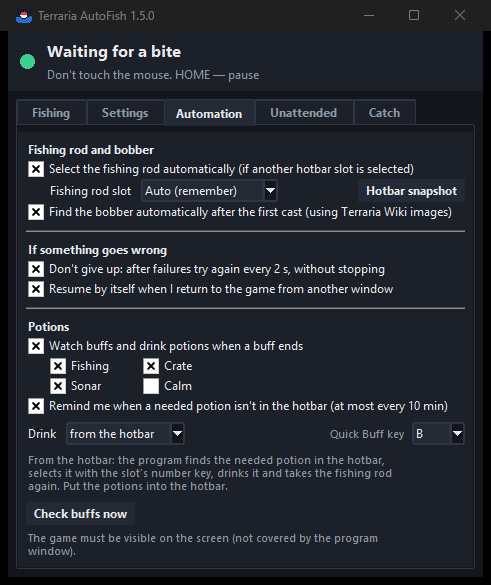
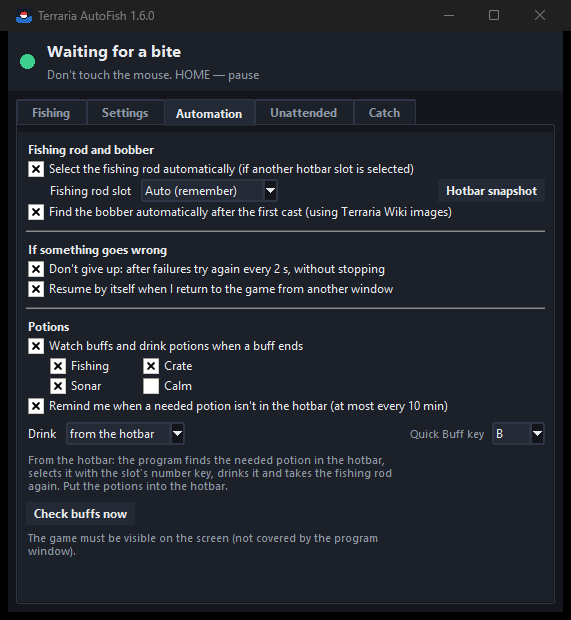
Version 1.6.0: diagnostics, Something's wrong, charts, less CPU, portable update
README (EN/RU), release notes and screenshots for 1.6.0.

diff --git a/src/app.py b/src/app.py
@@ -27,7 +27,7 @@ import i18n
 from i18n import tr
 
 APP = "Terraria AutoFish"
-VERSION = "1.5.1"
+VERSION = "1.6.0"
 # Портативная версия: рядом с программой лежит portable.txt — всё хранится в папке программы
 PORTABLE = os.path.exists(os.path.join(af.HERE, "portable.txt"))
 CFG_DIR = (os.path.join(af.HERE, "settings") if PORTABLE

diff --git a/src/installer.py b/src/installer.py
@@ -15,7 +15,7 @@ from tkinter import filedialog, ttk
 import setup_core as sc
 from i18n import system_lang
 
-VERSION = "1.5.1"
+VERSION = "1.6.0"
 LANG = system_lang()
 TEXT = {
     "title": ("Установка Terraria AutoFish %s", "Terraria AutoFish %s Setup"),

diff --git a/docs/releases/v1.6.0.md b/docs/releases/v1.6.0.md
@@ -1,0 +1,167 @@
+## Terraria AutoFish 1.6.0
+
+**English** · [Русский ниже](#русский)
+
+Automatic fishing for **Terraria** (1.4.4, 1.4.5 and newer, tModLoader). The program watches the bobber on the screen and hooks the fish the moment the bobber goes under water (or lava), then casts again. It takes the fishing rod in hand, finds the bobber by itself, drinks potions from the hotbar, can hook only the catch you want (Sonar Potion), counts what is caught, waits out Blood Moons and invasions and stops when something goes wrong. It works with screenshots, mouse clicks and key presses; it never changes the game's memory or files (it only reads item names from the game's own translation tables).
+
+### Download
+- **TerrariaAutoFish-1.6.0-setup.exe** — installer: installs for the current user (no admin rights), adds Desktop and Start menu shortcuts, updates an existing installation; remove it in Settings → Apps.
+- **TerrariaAutoFish-1.6.0-portable.zip** — portable version: unpack the `TerrariaAutoFish` folder anywhere (even a USB stick) and run `TerrariaAutoFish.exe`; settings are kept next to the program.
+
+### New in 1.6.0
+- **Diagnostics** (Settings tab): one check of everything needed for fishing — the game window, the hotbar and interface scale, the fishing rod and bait, potions in the hotbar and active buffs, health hearts, Windows text recognition languages, item names from the game, Zoom and saved points — each with what to do. The result is shown in a window and saved to `data\diagnostics_….txt`.
+- **⚑ Something's wrong** (Fishing tab): the last 60 search, bite and text pictures (kept in memory even with debug pictures off), a screenshot of the game window, the end of the log and the settings go into one `data\reports\mistake_….zip` — send it, and a strange case can be analysed right away.
+- **Events and death on real frames:** a new event line from the chat and the hearts at the moment of death are kept as pictures, and what was read is written to the log once — so the event recognition can be checked and improved on your games.
+- **Small window options:** opacity, text size, the mode block on/off, hide while fishing is paused.
+- **Charts in the catch report:** the catch over 14 days and by hour of day, how many crates and rare items, which biome gave the most.
+- **Less CPU:** while waiting for a bite the program takes an even 60 pictures a second (as many as the game draws) instead of up to ~150–200, and doesn't ask Windows for the game's process name on every picture — on the test game 23% → 9% of one core. The stats show the program's CPU load.
+- **One-click update for the portable version too:** it downloads the new zip, closes, replaces its files (settings and data are kept) and starts again.
+- **Second monitor:** the program window and the small window open where they were left, also on a monitor with negative coordinates; fishing on such a monitor is covered by a test.
+- **"Support the author"** window (appears once donation links are added).
+- **114 tests.**
+
+### Fixed in 1.5.1
+- **The program lost the bobber and followed an empty place.** In a dark cave the wide search took an empty spot on the water edge right next to the real bobber: the check "is it our bobber" looked for the Wiki image with too low a threshold (0.65, the empty edge gave 0.69). The remembered bobber image then "learned" the water edge, which looks the same along the whole surface, and the program watched an empty place — no bites for 45 s again and again, and its clicks got out of step with the real casts (a "hook" only cast the bobber). Now:
+  - a found place must look like the Wiki image of this bobber type (0.75+, the real bobber gives 0.95);
+  - the wide search takes the place most similar to the bobber in the zone;
+  - a place found only by the remembered image must pass the same check;
+  - after 3 recasts in a row without a bite the original bobber image and mark are restored.
+- **The program is in the project folder again** (`TerrariaAutoFish.exe` + `_internal`); everything it writes itself — logs, debug pictures, records, hotbar snapshots, reports — is in one `data` folder next to it.
+
+### New in 1.5.0
+**Events and death**
+- **Events in chat are waited out.** The game writes events in chat in green or purple; the program reads such a line and compares it with the game's texts: Blood, Pumpkin and Frost Moon and boss warnings — it reels in and waits one night (~9 min), solar eclipse — a day (~15 min), goblins, pirates, Frost Legion, martians, celestial invasion and a boss awakening — 10 min. Then fishing continues by itself (or press HOME). When an invasion is defeated ("A goblin army has been defeated!"), fishing continues at once.
+- **The character died — fishing stops completely.** No red left in the health hearts (while the hotbar is visible, so the fullscreen map isn't taken for death): no automatic resume, also while an event is being waited out.
+
+**The small window over the game shows the mode**: what is caught (everything or only checked with the Sonar Potion) and in which biome, the Angler quest, potions (and which aren't in the hotbar), what is watched, when to stop, how much bait is left and the last catch.
+
+**Fishing**
+- **A moved picture is followed.** If the character is pushed (an enemy, a fall), the whole picture moves and the old cast point may be over land. The program compares the place with its picture from the last successful cast and moves the cast point and the mark by the same amount instead of failing.
+- **Sonar text over lava.** Lava and waves change all the time, and before the text seemed to be always there — its appearance was missed, and later several texts overlapped. Now colors already present nearby in the background are not taken for letters: on real lava screenshots the text is found and read ("Обсидирыба").
+- **Zoom is recognized by itself** by the bobber's size on the first automatic search (100–200%) and saved in the settings.
+- **Exact bait count and how long it lasts.** The number on the fishing rod is read by samples of the game's digits; only a confident read is used (otherwise the number of digits, as before).
+- **Taking the rod:** a lost key press is repeated; keys are never pressed while the game window isn't active; after 3 failures it tries again in 2 minutes.
+- **Potions:** one reminder for all potions that aren't in the hotbar, repeated only when the list changes or every 10 minutes; can be turned off.
+- **Fixed:** yellow lights behind the hotbar (a garland) stretched the selected slot, the slot layout shifted and neither potions nor the fishing rod were found.
+- **Fixed:** an error when the bobber wasn't visible at all from the start of watching.
+
+**Catch**
+- **History between launches:** the catch report shows this session, today, 7 days or all time (`catch_history.json` next to the settings); CSV for the chosen period.
+
+**Program**
+- **One-click update:** when a new version is out, the button in Settings becomes "Update to X" — it downloads the installer (the size is checked), starts it and closes the program. The portable version opens the release page.
+- **Releases are published from the author's account** (the automatic build on GitHub only builds and keeps the files; `tools/publish_release.py`).
+- **Tidy project folder:** sources in `src`, scripts in `scripts`, the built program with its logs and pictures in `program`.
+- **114 tests**, including real screenshots from lava, a hotbar with yellow lights and bait numbers.
+
+### Features
+**Fishing**
+- **One-key start:** point at the water and press **HOME** — the program selects the rod, casts and finds the bobber. If it can't find it, point at the bobber and press **HOME** once more.
+- **Finds the bobber by itself** by the Terraria Wiki images of every rod's bobber and every Fishing Bobber accessory — in water and in lava; adapts to sunset, night, caves and weather; follows a moved picture.
+- **Bite detection** by how much of the bobber is visible; a sharp dip and the Sonar text count too. Waves, rain, fish shadows, pets, sparkles and lightning flashes are ignored. **Auto-calibration** of the threshold.
+- **Pause / resume** with **HOME** keeping the points (also after restarting the program); **new points** with **END**.
+
+**Automation**
+- **Fishing rod:** finds the rod in the hotbar (all 11 rods), remembers its slot and takes it in hand before casting.
+- **Potions from the hotbar:** Fishing, Crate, Sonar and Calming — exactly the needed potion; or with Quick Buff (B).
+- **Doesn't give up:** retries every 2 s, round after round; resumes by itself when you come back to the game.
+
+**Catch** (Sonar Potion)
+- Lists for every biome plus Crates, Rare and Junk — 128 catches; names exactly as the game writes them. The program hooks only what is checked; if the name can't be read confidently, it hooks.
+- **"Fishing in: Auto"** recognizes the biome by what bites and what is picked up; Angler quest fish; catch report and history with CSV.
+
+**Unattended**
+- **Health guard** (damage — reel in and pause), **death** — stop completely, **events** in chat — wait out and continue.
+- **Bait:** exact count and time left; less than 10 — notification; no bait — stop. **Inventory full** — pause.
+- **When to finish:** after N minutes or N hooks; optionally shut the computer down.
+
+**Interface**
+- State, live picture of the bobber, "bobber visible" bar, statistics, colored log (also in `logs`, 14 days), **Collect a report**.
+- Small window over the game with the mode, Windows notifications, sounds, tray icon, first-run guide (F1), update in one click.
+- English and Russian.
+
+Requirements: Windows 10/11; in Terraria use **Windowed** or **Borderless** mode. Use in single player or on your own server — macros are often prohibited on public servers. Rod, bobber, buff and potion images are from the Terraria Wiki and belong to Re-Logic; this project is not affiliated with Re-Logic.
+
+---
+
+### Русский
+
+Автоматическая рыбалка для **Terraria** (1.4.4, 1.4.5 и новее, tModLoader). Программа следит за поплавком на экране и подсекает, как только он уходит под воду (или под лаву), затем забрасывает снова. Сама берёт удочку в руки, находит поплавок, пьёт зелья из хотбара, может подсекать только нужный улов (зелье сонара), считает пойманное, пережидает Кровавую луну и вторжения и останавливается, если что-то пошло не так. Работает со снимками экрана, кликами мыши и нажатиями клавиш; память и файлы игры не меняет (только читает названия предметов из встроенных в игру таблиц перевода).
+
+### Скачать
+- **TerrariaAutoFish-1.6.0-setup.exe** — установщик: ставит программу для текущего пользователя (без прав администратора), создаёт ярлыки на рабочем столе и в меню «Пуск», обновляет установленную версию; удалить — в «Параметры → Приложения».
+- **TerrariaAutoFish-1.6.0-portable.zip** — портативная версия: распакуйте папку `TerrariaAutoFish` куда угодно (хоть на флешку) и запустите `TerrariaAutoFish.exe`; настройки хранятся рядом с программой.
+
+### Новое в 1.6.0
+- **«Диагностика»** (вкладка «Настройки»): одна проверка всего, что нужно для рыбалки, — окно игры, хотбар и масштаб интерфейса, удочка и наживка, зелья в хотбаре и баффы, сердечки здоровья, языки распознавания текста Windows, названия из игры, Zoom и сохранённые точки — на каждый пункт подсказка, что сделать. Итог — в окне и в `data\diagnostics_….txt`.
+- **«⚑ Что-то не так»** (вкладка «Рыбалка»): последние 60 картинок поиска, поклёвок и надписей (хранятся в памяти даже без отладочных картинок), снимок окна игры, конец журнала и настройки — в один `data\reports\mistake_….zip`. Пришлите его — и странный случай можно разобрать сразу.
+- **События и смерть на настоящих кадрах:** новая строка события из чата и сердечки в момент смерти сохраняются картинками, а прочитанное один раз пишется в журнал — так распознавание событий можно проверить и улучшить на ваших играх.
+- **Настройки окошка поверх игры:** непрозрачность, размер текста, блок режима вкл/выкл, прятать на паузе.
+- **Графики в отчёте об улове:** улов за 14 дней и по часам суток, сколько ящиков и редкого, какой биом дал больше всего.
+- **Меньше нагрузка на процессор:** пока ждёт поклёвку, программа делает ровно 60 снимков в секунду (столько, сколько рисует игра) вместо примерно 150–200 и не спрашивает у Windows имя процесса игры на каждом снимке — на тестовой игре 23 % → 9 % одного ядра. В статистике видна нагрузка программы.
+- **Обновление в один клик и для портативной версии:** скачивает новый архив, закрывается, заменяет свои файлы (настройки и данные сохраняются) и запускается снова.
+- **Второй монитор:** окно программы и окошко открываются там, где их оставили, и на мониторе с отрицательными координатами; рыбалка на таком мониторе проверена тестом.
+- **Окно «Поддержать автора»** (появится, когда будут добавлены ссылки для пожертвований).
+- **114 тестов.**
+
+### Исправлено в 1.5.1
+- **Программа теряла поплавок и следила за пустым местом.** В тёмной пещере широкий поиск взял пустое место на кромке воды рядом с настоящим поплавком: проверка «наш ли это поплавок» искала картинку с Вики со слишком низким порогом (0.65, а пустая кромка давала 0.69). Запомненный образец поплавка «переучивался» на кромку воды, одинаковую по всей поверхности, и программа следила за пустым местом — «нет поклёвки 45 с» раз за разом, а её клики сбивались с настоящими забросами («подсечка» только забрасывала поплавок). Теперь:
+  - найденное место должно быть похоже на картинку этого вида поплавка с Вики (от 0.75, настоящий поплавок даёт 0.95);
+  - широкий поиск берёт в зоне место, больше всего похожее на поплавок;
+  - место, найденное только по образцу, проходит ту же проверку;
+  - после 3 перезабросов подряд без поклёвки возвращаются исходные образец и отметка поплавка.
+- **Программа снова в папке проекта** (`TerrariaAutoFish.exe` + `_internal`); всё, что она пишет сама, — журналы, отладочные картинки, записи, снимки хотбара, отчёты — в одной папке `data` рядом с ней.
+
+### Новое в 1.5.0
+**События и смерть**
+- **События в чате пережидаются.** Игра пишет события в чат зелёным или фиолетовым; программа читает такую строку и сверяет с текстами игры: Кровавая, Тыквенная и Морозная луны и предупреждения о боссах — вытаскивает поплавок и пережидает ночь (~9 мин), солнечное затмение — день (~15 мин), гоблины, пираты, Ледяной легион, марсиане, небесное вторжение и пробуждение босса — 10 мин. Потом рыбалка продолжается сама (или нажмите HOME). Вторжение побеждено («Армия гоблинов побеждена!») — продолжает сразу.
+- **Персонаж погиб — рыбалка останавливается совсем.** Красного в сердечках не осталось (а хотбар при этом виден — полноэкранная карта за смерть не считается): без самопродолжения, в том числе пока пережидается событие.
+
+**Окошко поверх игры показывает режим работы**: что ловим (всё или только отмеченное по сонару) и в каком биоме, задание рыбака, зелья (и каких нет в хотбаре), за чем слежу, когда остановиться, сколько наживки и последний улов.
+
+**Рыбалка**
+- **Сдвиг картинки.** Если персонажа сдвинуло (враг, падение), вся картинка уезжает, и старая точка заброса может оказаться над сушей. Программа сравнивает место со снимком после последнего удачного заброса и переносит точку заброса и отметку на столько же, а не считает заброс неудачным.
+- **Надпись сонара над лавой.** Лава и волны всё время меняются, и раньше казалось, что надпись висит всегда, — её появление пропускалось, а потом несколько надписей накладывались друг на друга. Теперь цвета, которые уже есть рядом на фоне, не принимаются за буквы: на настоящих снимках из лавы надпись находится и читается («Обсидирыба»).
+- **Zoom узнаётся сам** по размеру поплавка при первом автопоиске (100–200 %) и сохраняется в настройках.
+- **Точное число наживки и на сколько её хватит.** Число на удочке читается по образцам цифр игрового шрифта; засчитывается только уверенное прочтение (иначе, как раньше, — сколько в числе цифр).
+- **Взять удочку:** потерявшееся нажатие повторяется; пока окно игры не активно, клавиши не нажимаются; после 3 неудач — новая попытка через 2 минуты.
+- **Зелья:** одно напоминание про все зелья, которых нет в хотбаре; повтор — только если список изменился или раз в 10 минут; можно выключить.
+- **Исправлено:** жёлтые огоньки за хотбаром (гирлянда) растягивали выбранный слот, раскладка слотов съезжала, и не находились ни зелья, ни удочка.
+- **Исправлено:** ошибка, когда поплавка с самого начала слежения не было видно.
+
+**Улов**
+- **История между запусками:** отчёт об улове — за эту рыбалку, сегодня, 7 дней или всё время (`catch_history.json` рядом с настройками); CSV за выбранный период.
+
+**Программа**
+- **Обновление в один клик:** когда вышла новая версия, кнопка в настройках становится «Обновить до X» — скачивает установщик (размер сверяется), запускает его и закрывает программу. Портативная версия открывает страницу релиза.
+- **Релизы выкладываются от аккаунта автора** (автосборка на GitHub только собирает и хранит файлы; `tools/publish_release.py`).
+- **Порядок в папке проекта:** исходники — в `src`, скрипты — в `scripts`, собранная программа со своими журналами и картинками — в `program`.
+- **114 тестов**, в том числе на настоящих снимках из лавы, хотбаре с жёлтыми огоньками и числах наживки.
+
+### Возможности
+**Рыбалка**
+- **Старт одной клавишей:** курсор на воду и **HOME** — программа возьмёт удочку, забросит и найдёт поплавок. Если не нашла — наведите на поплавок и нажмите **HOME** ещё раз.
+- **Сама находит поплавок** по картинкам с Terraria Wiki — поплавкам всех удочек и всем аксессуарам-поплавкам — в воде и в лаве; подстраивается под закат, ночь, пещеры и погоду; следует за сдвигом картинки.
+- **Поклёвка** — по тому, сколько поплавка видно; резкий нырок и надпись сонара тоже считаются. Волны, дождь, тени рыб, питомцы, искры и вспышки молний не мешают. **Автокалибровка** порога.
+- **Пауза / продолжение** — **HOME**, с теми же точками (и после перезапуска программы); **новые точки** — **END**.
+
+**Автоматика**
+- **Удочка:** находит удочку в хотбаре (все 11 удочек), запоминает слот и берёт её в руки перед забросом.
+- **Зелья из хотбара:** рыбалки, ящиков, сонара и спокойствия — именно нужное; или быстрым баффом (B).
+- **Не сдаётся:** пробует снова каждые 2 с, круг за кругом; сама продолжает, когда вы возвращаетесь в игру.
+
+**Улов** (зелье сонара)
+- Списки для каждого биома, а ещё ящики, редкое и мусор — 128 видов улова; названия — ровно как пишет игра. Подсекается только отмеченное; не прочитала название уверенно — подсекает.
+- **«Где рыбачу: Авто»** — биом узнаётся по тому, что клюёт и что подобрано; рыба для задания рыбака; отчёт и история улова с CSV.
+
+**Без присмотра**
+- **Защита персонажа** (урон — вытащить поплавок и пауза), **смерть** — остановка совсем, **события** в чате — переждать и продолжить.
+- **Наживка:** точное число и на сколько хватит; меньше 10 — уведомление; кончилась — остановка. **Инвентарь полон** — пауза.
+- **Когда закончить:** через N минут или N подсечек; по желанию — выключить компьютер.
+
+**Интерфейс**
+- Что происходит, живая картинка поплавка, шкала «видно поплавка», статистика, цветной журнал (ещё и в `logs`, 14 дней), **«Собрать отчёт»**.
+- Окошко поверх игры с режимом работы, уведомления Windows, звуки, значок в трее, мастер первого запуска (F1), обновление в один клик.
+- Русский и английский.
+
+Требования: Windows 10/11; в Terraria — режим **«Оконный»** или **«Без рамки»**. Используйте в одиночной игре или на своём сервере — на публичных серверах макросы часто запрещены. Картинки удочек, поплавков, баффов и зелий взяты с Terraria Wiki и принадлежат Re-Logic; проект не связан с Re-Logic.

diff --git a/README.md b/README.md
@@ -65,7 +65,9 @@ catch names match what the game writes.
   bobber, stats, an event log, a small window over the game (with the current mode: what is caught,
   biome, potions, what is watched, when to stop, bait, the last catch), Windows notifications, a tray
   icon and a short first-run guide (**F1**). Checks for a new version once a day and updates in one
-  click.
+  click (the installed and the portable version). **Diagnostics** checks everything at once, and
+  **Something's wrong** saves the last pictures and the log for analysis. Works on a second monitor;
+  while waiting for a bite it takes 60 pictures a second — as many as the game draws.
 - **Two languages** — English and Russian.
 
 ## Download
@@ -114,14 +116,18 @@ program just press **HOME** (if your character hasn't moved).
 - **Bobber visible above water** — green bar: everything is calm; when the bar drops below the
   red line, it's a bite and the program hooks.
 - **Stats** — hooks, casts, hooks per hour, running time, failed casts in a row, potions, the rod's
-  hotbar slot and the recognized bobber.
+  hotbar slot and the recognized bobber, bait, the program's CPU load.
+- **⚑ Something's wrong** — if the program did something strange, press it: the last 60 search,
+  bite and text pictures (kept in memory even with debug pictures off), a screenshot of the game
+  window, the end of the log and the settings are saved to `data\reports\mistake_….zip` — send it.
 - **Log** — all events. Green — good, red — pause/problems, yellow — your action is needed.
 
 The small window over the game shows the same things briefly, and below the bar — the mode: what is
 caught (everything or only checked with the Sonar Potion) and in which biome, the Angler quest,
 potions (and which aren't in the hotbar), what is watched (damage, bait, full inventory, events,
 death), when to stop, how much bait is left and the last catch. Drag it with the mouse; clicking it
-does not take focus away from the game.
+does not take focus away from the game. In Settings you can change its opacity and text size, turn
+the mode block off and hide it while fishing is paused.
 
 <img src="docs/overlay-en.png" alt="Overlay">
 
@@ -135,10 +141,11 @@ does not take focus away from the game.
 | Sensitivity | Hook when less than this share of the bobber is visible. Used until auto-calibration has learned (and always if it is off) |
 | Auto-calibration | The threshold is tuned automatically (recommended) |
 | Wait for a bite | After this time without a bite — reel in and cast again |
-| Small window, notifications, sounds | Ways to know what's happening |
+| Small window, notifications, sounds | Ways to know what's happening; for the small window — opacity, text size, the mode block, hide when paused |
 | Save debug pictures | Pictures of every search and hook in the `data\debug` folder — for troubleshooting |
 | Record mode | The program casts, you hook yourself; it records how the bobber behaved (`data\record` folder) |
-| Updates | Checks right away whether there is a newer version on GitHub (it also checks by itself once a day; only the public information about the latest release is read). If there is, the button becomes **Update to X**: it downloads the installer of the new version (the size is checked), starts it and closes the program so the installer can replace the files; settings and points are kept. The portable version opens the release page instead |
+| Updates | Checks right away whether there is a newer version on GitHub (it also checks by itself once a day; only the public information about the latest release is read). If there is, the button becomes **Update to X**: it downloads the installer of the new version (the size is checked), starts it and closes the program so the installer can replace the files; settings and points are kept. The portable version downloads its zip, closes, replaces its files (`settings` and `data` are kept) and starts again |
+| Diagnostics | In 3 s (switch to the game) checks everything needed for fishing: the game window, the hotbar and interface scale, the fishing rod and bait, potions in the hotbar and active buffs, health hearts, Windows text recognition languages, item names from the game, Zoom and saved points — each with what to do. The result is shown and saved to `data\diagnostics_….txt` (and added to the report) |
 | Collect a report | Packs the logs, settings, latest debug pictures, hotbar snapshots and system info into `report_….zip` in the `data` folder — send it when something goes wrong. The log is also written to `data\logs` (kept for 14 days) |
 
 ### Automation tab
@@ -168,7 +175,7 @@ hold the potions.
 |---|---|
 | Choose the catch using the Sonar Potion | When a fish bites, the Sonar Potion shows its name above the bobber. The program reads it and hooks only what is checked; otherwise it lets it go and waits for the next bite. If it can't read the name — it hooks (nothing valuable is lost) |
 | Angler quest | Today's quest fish. It is always hooked (even if unchecked in the lists); as soon as it's caught, fishing pauses and you get a notification |
-| Catch report | What was caught (by the pickup text) **this session, today, in 7 days or all time**: name, how many, where it lives; hooks, recognized / not recognized, let go by sonar, hooks per hour, days of fishing. **Save CSV** writes it to a file. The history is kept by day in `catch_history.json` next to the settings |
+| Catch report | What was caught (by the pickup text) **this session, today, in 7 days or all time**: name, how many, where it lives; hooks, recognized / not recognized, let go by sonar, hooks per hour, days of fishing; crates, rare items and the biome that gave the most; bar charts of the catch over 14 days and by hour of day. **Save CSV** writes it to a file. The history is kept by day and hour in `catch_history.json` next to the settings |
 | Fishing in | The biome whose list is used. **Auto** — guessed by what bites (Sonar) and by what is caught: after every hook the program reads the pickup text above the character, so the biome is recognized even without the Sonar Potion (e.g. Neon Tetra means the Jungle). Caught items are also written to the log |
 | List | The catches of each biome (from the Terraria Wiki, with "hardmode" marks), plus Crates, Rare items and Junk that can be caught anywhere. "All" / "None" check or clear the whole list |
 
@@ -257,6 +264,9 @@ Settings are saved automatically in `%APPDATA%\TerrariaAutoFish` (portable versi
 
 ## Troubleshooting
 
+Start with **Diagnostics** (Settings tab) — it shows what's wrong and what to do. If the program did
+something strange, press **⚑ Something's wrong** on the Fishing tab and send the saved archive.
+
 | Problem | Solution |
 |---|---|
 | Hooks without a bite | Turn auto-calibration on, or lower the sensitivity (e.g. 45%) |
@@ -300,7 +310,7 @@ taken from `docs/releases/<tag>.md`).
 
 ### Tests
 
-`scripts\run_tests.bat` (or `python -m unittest discover -s tests`) runs 104 tests in about four minutes, most of them on
+`scripts\run_tests.bat` (or `python -m unittest discover -s tests`) runs 114 tests in about four and a half minutes, most of them on
 real data from the game in `tests/data`: hotbar snapshots with different selected slots, recorded
 bites, bobber search zones and a wide scene with a pier. Full scenarios (start, pause and resume,
 taking the rod back, a bite, running out of bait, night, potions, the Sonar Potion, the Angler quest,
@@ -315,7 +325,7 @@ bait numbers, and check that every message is translated to English.
 | `src/app.py` | The program with a window, overlay and notifications |
 | `src/autofish.py` | Fishing engine: settings, control, the main loop; console version |
 | `src/vision.py`, `src/fisher_gear.py`, `src/fisher_search.py`, `src/fisher_extras.py`, `src/fisher_catch.py` | Parts of the engine: image analysis and bite detection; rod and bobber marking; bobber search; health, death, events, limits, potions; catch (sonar, pickup text, inventory, Angler quest) |
-| `src/sceneshift.py`, `src/chat.py`, `src/history.py` | A moved picture; events in chat; catch history |
+| `src/sceneshift.py`, `src/chat.py`, `src/history.py`, `src/diagnose.py`, `src/donate.py` | A moved picture; events in chat; catch history; diagnostics; donation pages |
 | `src/textmemory.py`, `src/updates.py`, `src/tray.py`, `src/wizard.py` | Name memory for catch recognition; updates; tray icon; first-run guide |
 | `src/buffs.py`, `src/pngread.py` | Buff recognition |
 | `src/catches.py`, `src/sonar.py`, `src/ocr.py`, `src/gamenames.py` | Choosing the catch by the Sonar Potion: catches of every biome, reading the text, Windows text recognition, item names from the installed game |
